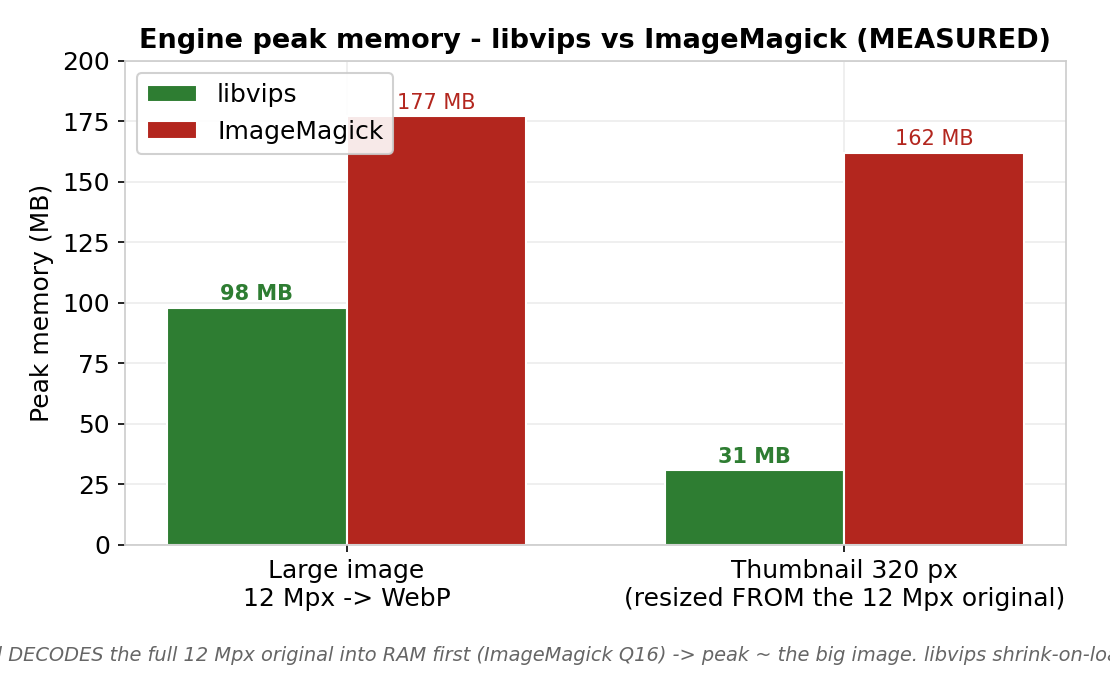
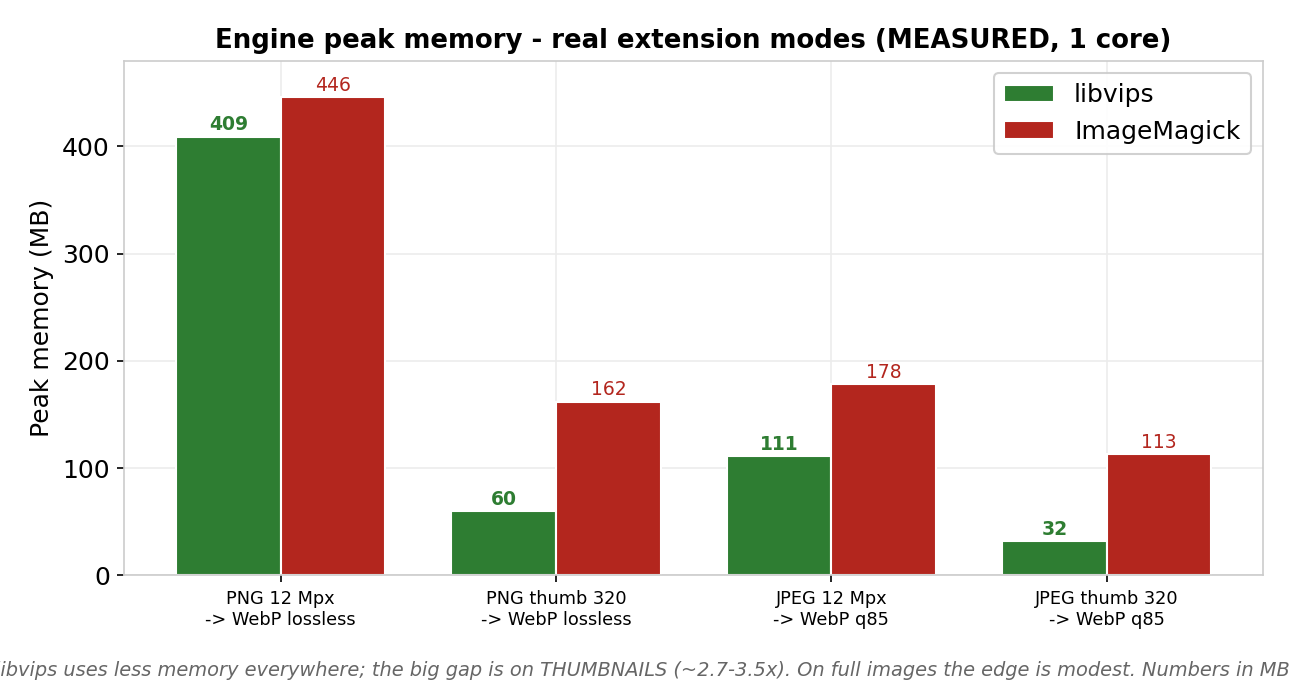
docs: engine benchmarks now reflect the extension's REAL modes (lossless PNG + JPEG)
The engine memory/time charts used lossy q85 numbers, but the extension serves
LOSSLESS WebP for PNG. Re-measured at the real modes (PNG->lossless WebP,
JPEG->q85) on the test box and corrected the honest story:
  * libvips uses less memory everywhere, biggest on thumbnails (~2.7-3.5x);
  * but it is NOT universally faster: ~40x faster only on JPEG thumbnails
    (shrink-on-load); on a big LOSSLESS PNG it is NOT faster (even slower:
    17s vs 11s), since PNG has no reduced-scale decode.
Figs 11/12 rebuilt as 4 real scenarios; narrative corrected in the perf guide
and the manual (FR+EN). PDFs regenerated.

https://claude.ai/code/session_01TzHc8Rg6XXRM7Uq3jVGztB

diff --git a/docs/performance-guide.src.html b/docs/performance-guide.src.html
@@ -168,7 +168,7 @@ sans AV1</b> — l'extension le détecte et sert alors le WebP. Test réel de la
 <h2>4.6 Moteur : mémoire, vitesse, débit</h2>
 <img class="chart" src="benchmarks/11-engine-memory.png" alt="Pic mémoire : libvips vs ImageMagick (mesuré)"><p class="fcap">Pic mémoire : libvips vs ImageMagick (mesuré)</p>
 <img class="chart" src="benchmarks/12-engine-time.png" alt="Temps : libvips vs ImageMagick (mesuré, échelle log)"><p class="fcap">Temps : libvips vs ImageMagick (mesuré, échelle log)</p>
-<p>libvips utilise ~1,8× moins de mémoire sur une grande image, et ~5× moins (et ~40× plus vite) sur le <b>pipeline de miniatures</b> — exactement la charge d'un backfill et de la génération à la volée.</p>
+<p><b>Lecture honnête (mesures aux réglages réels de l'extension : PNG → WebP lossless, JPEG → q85).</b> libvips utilise <b>moins de mémoire partout</b>, surtout sur les <b>miniatures</b> (~2,7–3,5×). Côté <b>vitesse</b>, l'avantage n'est <b>pas</b> universel : il est net sur les <b>miniatures JPEG</b> (~40×, grâce au <i>shrink-on-load</i>), mais sur un <b>gros PNG lossless</b> libvips n'est <b>pas plus rapide</b> (il est même un peu plus lent : 17 s vs 11 s), car le PNG n'a pas de décodage à échelle réduite. Bilan : vips fait surtout gagner de la <b>mémoire</b> (et du temps sur les miniatures JPEG).</p>
 <img class="chart" src="benchmarks/13-throughput-profile.png" alt="Débit par profil de wiki (libvips, un cœur)"><p class="fcap">Débit par profil de wiki (libvips, un cœur)</p>
 <p>Le <b>débit</b> varie selon la richesse média (~245 à ~65 images/min sur un cœur) ; le ratio de bande passante reste ~−71/−72 %. Parallélisez le backfill pour multiplier le débit.</p>
 
@@ -347,7 +347,7 @@ extension detects this and serves WebP instead. Real AV1-capability test for vip
 <h2>4.6 Engine: memory, speed, throughput</h2>
 <img class="chart" src="benchmarks/11-engine-memory.png" alt="Peak memory: libvips vs ImageMagick (measured)"><p class="fcap">Peak memory: libvips vs ImageMagick (measured)</p>
 <img class="chart" src="benchmarks/12-engine-time.png" alt="Time: libvips vs ImageMagick (measured, log scale)"><p class="fcap">Time: libvips vs ImageMagick (measured, log scale)</p>
-<p>libvips uses ~1.8× less memory on a large image, and ~5× less (and ~40× faster) on the <b>thumbnail pipeline</b> — exactly the load of a backfill and on-the-fly generation.</p>
+<p><b>Honest reading (measured at the extension's real modes: PNG → lossless WebP, JPEG → q85).</b> libvips uses <b>less memory everywhere</b>, especially on <b>thumbnails</b> (~2.7–3.5×). On <b>speed</b> the advantage is <b>not</b> universal: it is large on <b>JPEG thumbnails</b> (~40×, thanks to <i>shrink-on-load</i>), but on a <b>big lossless PNG</b> libvips is <b>not faster</b> (even a bit slower: 17 s vs 11 s), because PNG has no reduced-scale decode. Bottom line: vips mainly saves <b>memory</b> (and time on JPEG thumbnails).</p>
 <img class="chart" src="benchmarks/13-throughput-profile.png" alt="Throughput by wiki profile (libvips, single core)"><p class="fcap">Throughput by wiki profile (libvips, single core)</p>
 <p><b>Throughput</b> varies with media richness (~245 to ~65 images/min on one core); the bandwidth ratio stays ~−71/−72%. Parallelize the backfill to multiply throughput.</p>
 

diff --git a/docs/manual.src.html b/docs/manual.src.html
@@ -648,7 +648,7 @@ le WebP <b>ajoute</b> du disque. On sépare donc la <i>bande passante servie</i>
 <img class="chart" src="benchmarks/11-engine-memory.png" alt="Mémoire moteur">
 <img class="chart" src="benchmarks/12-engine-time.png" alt="Temps moteur">
 <img class="chart" src="benchmarks/13-throughput-profile.png" alt="Débit par profil">
-<p class="fcap">libvips ~1,8× moins de mémoire (grande image) et ~5× moins / ~40× plus vite (miniatures) ; débit ~245→~65 img/min selon la richesse média (la bande passante reste ~−71/−72 %).</p>
+<p class="fcap">Mesuré aux réglages réels (PNG→WebP lossless, JPEG→q85) : libvips = moins de mémoire partout (surtout miniatures ~2,7–3,5×) ; ~40× plus vite uniquement sur les miniatures JPEG (shrink-on-load), PAS plus rapide sur gros PNG lossless (même un peu plus lent). Débit ~245→~65 img/min selon la richesse média ; bande passante ~−71/−72 %.</p>
 
 <!-- ===================== ENGLISH ===================== -->
 <p class="flag langsep" style="font-size:9pt; color:#2e5a86; font-weight:bold; letter-spacing:1px;">EN — ENGLISH VERSION</p>
@@ -1114,7 +1114,7 @@ WebP copies ≈ 70% of the optimized original, stored <b>in addition</b>.</div>
 <img class="chart" src="benchmarks/11-engine-memory.png" alt="Engine memory">
 <img class="chart" src="benchmarks/12-engine-time.png" alt="Engine time">
 <img class="chart" src="benchmarks/13-throughput-profile.png" alt="Throughput by profile">
-<p class="fcap">libvips ~1.8× less memory (large image), ~5× less / ~40× faster (thumbnails); throughput ~245→~65 img/min by media richness (bandwidth stays ~−71/−72%).</p>
+<p class="fcap">Measured at the extension's real modes (PNG→lossless WebP, JPEG→q85): libvips uses less memory everywhere (esp. thumbnails ~2.7–3.5×); ~40× faster ONLY on JPEG thumbnails (shrink-on-load), NOT faster on big lossless PNG (even a bit slower). Throughput ~245→~65 img/min by media richness; bandwidth ~−71/−72%.</p>
 
 </body></html>
 

diff --git a/docs/benchmarks/model.py b/docs/benchmarks/model.py
@@ -216,34 +216,36 @@ ax.annotate("-12% more\n(but ~13.7 s!)", (2, 31), ha="center", color=C["red"], f
 caption(fig, "Second pass (zopflipng) is slow for a marginal disk-only gain - prefer oxipng, run off-traffic.")
 save(fig, "10-png-passes.png")
 
-# ---- FIG 11 — engine peak memory (libvips vs ImageMagick) ------------------
-fig, ax = plt.subplots(figsize=(7.4, 4.5)); xx = np.arange(2); w = 0.36
-vips_mem = [98, 31]; im_mem = [177, 162]
+# ---- FIG 11 - engine peak memory, REAL extension modes (PNG lossless + JPEG q85)
+fig, ax = plt.subplots(figsize=(8.6, 4.6)); xx = np.arange(4); w = 0.38
+labels = ["PNG 12 Mpx\n-> WebP lossless", "PNG thumb 320\n-> WebP lossless", "JPEG 12 Mpx\n-> WebP q85", "JPEG thumb 320\n-> WebP q85"]
+vips_mem = [409, 60, 111, 32]; im_mem = [446, 162, 178, 113]
 ax.bar(xx-w/2, vips_mem, w, label="libvips", color=C["green"], edgecolor="white")
-ax.bar(xx+w/2, im_mem,  w, label="ImageMagick", color=C["red"], edgecolor="white")
-ax.set_xticks(xx); ax.set_xticklabels(["Large image\n12 Mpx -> WebP", "Thumbnail 320 px\n(resized FROM the 12 Mpx original)"])
-ax.set_ylabel("Peak memory (MB)"); ax.set_ylim(0, 200)
-ax.set_title("Engine peak memory - libvips vs ImageMagick (MEASURED)", fontweight="bold", fontsize=13)
-for i, (a, b) in enumerate(zip(vips_mem, im_mem)):
-    ax.text(i-w/2, a+3, f"{a} MB", ha="center", fontsize=10, color=C["green"], fontweight="bold")
-    ax.text(i+w/2, b+3, f"{b} MB", ha="center", fontsize=10, color=C["red"])
+ax.bar(xx+w/2, im_mem, w, label="ImageMagick", color=C["red"], edgecolor="white")
+ax.set_xticks(xx); ax.set_xticklabels(labels, fontsize=8.5)
+ax.set_ylabel("Peak memory (MB)"); ax.set_ylim(0, 480)
+ax.set_title("Engine peak memory - real extension modes (MEASURED, 1 core)", fontweight="bold", fontsize=12.5)
+for i,(a,b) in enumerate(zip(vips_mem, im_mem)):
+    ax.text(i-w/2, a+6, f"{a}", ha="center", fontsize=9, color=C["green"], fontweight="bold")
+    ax.text(i+w/2, b+6, f"{b}", ha="center", fontsize=9, color=C["red"])
 ax.legend(framealpha=0.9)
-caption(fig, "Making a 320px thumb still DECODES the full 12 Mpx original into RAM first (ImageMagick Q16) -> peak ~ the big image. libvips shrink-on-load avoids that -> ~5x less.")
+caption(fig, "libvips uses less memory everywhere; the big gap is on THUMBNAILS (~2.7-3.5x). On full images the edge is modest. Numbers in MB.")
 save(fig, "11-engine-memory.png")
 
-# ---- FIG 12 — engine time (log scale, the thumbnail gap is huge) -----------
-fig, ax = plt.subplots(figsize=(7.4, 4.5))
-vips_t = [2.2, 0.03]; im_t = [1.9, 1.2]
+# ---- FIG 12 - engine wall time, REAL extension modes (log scale)
+fig, ax = plt.subplots(figsize=(8.6, 4.6))
+labels = ["PNG 12 Mpx\n-> WebP lossless", "PNG thumb 320\n-> WebP lossless", "JPEG 12 Mpx\n-> WebP q85", "JPEG thumb 320\n-> WebP q85"]
+vips_t = [17.1, 0.82, 1.37, 0.03]; im_t = [11.0, 0.81, 1.30, 0.31]
 ax.bar(xx-w/2, vips_t, w, label="libvips", color=C["green"], edgecolor="white")
-ax.bar(xx+w/2, im_t,  w, label="ImageMagick", color=C["red"], edgecolor="white")
-ax.set_xticks(xx); ax.set_xticklabels(["Large image\n12 Mpx -> WebP", "Thumbnail 320 px\n(resized FROM the 12 Mpx original)"])
-ax.set_yscale("log"); ax.set_ylabel("Wall time (s, log)"); ax.set_ylim(0.02, 4)
-ax.set_title("Engine wall time - libvips vs ImageMagick (MEASURED)", fontweight="bold", fontsize=13)
-for i, (a, b) in enumerate(zip(vips_t, im_t)):
-    ax.text(i-w/2, a*1.1, f"{a} s", ha="center", fontsize=10, color=C["green"], fontweight="bold")
-    ax.text(i+w/2, b*1.1, f"{b} s", ha="center", fontsize=10, color=C["red"])
-ax.legend(framealpha=0.9)
-caption(fig, "Same cause: the thumbnail time is dominated by decoding the full original. libvips decodes at reduced scale (shrink-on-load) -> ~40x faster; it need not decode the whole image.")
+ax.bar(xx+w/2, im_t, w, label="ImageMagick", color=C["red"], edgecolor="white")
+ax.set_xticks(xx); ax.set_xticklabels(labels, fontsize=8.5)
+ax.set_yscale("log"); ax.set_ylabel("Wall time (s, log)"); ax.set_ylim(0.02, 30)
+ax.set_title("Engine wall time - real extension modes (MEASURED, 1 core)", fontweight="bold", fontsize=12.5)
+for i,(a,b) in enumerate(zip(vips_t, im_t)):
+    ax.text(i-w/2, a*1.12, f"{a}s", ha="center", fontsize=8.5, color=C["green"], fontweight="bold")
+    ax.text(i+w/2, b*1.12, f"{b}s", ha="center", fontsize=8.5, color=C["red"])
+ax.legend(framealpha=0.9, loc="upper right")
+caption(fig, "HONEST: libvips is ~40x faster only on JPEG thumbnails (shrink-on-load). On big LOSSLESS PNG it is NOT faster (even slower here). PNG has no shrink-on-load.")
 save(fig, "12-engine-time.png")
 
 # ---- FIG 13 — throughput by wiki profile (single core) ---------------------
